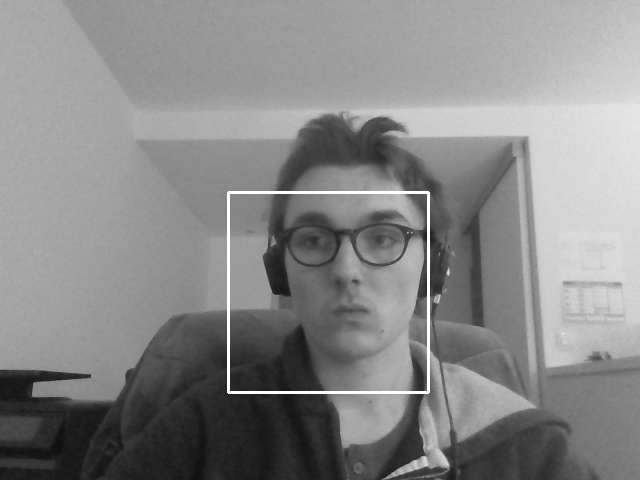
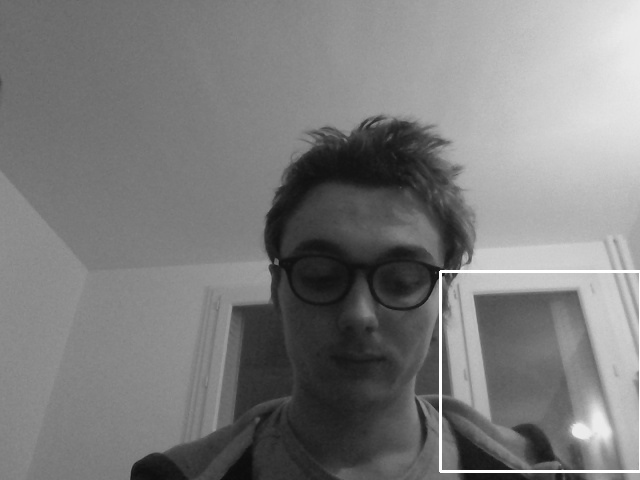
s

diff --git a/templates/index.html b/templates/index.html
@@ -13,7 +13,8 @@ table ,td, tr {
 </style>
 
 	<body>
-		<img src="http://192.168.1.25:8081/" style="width:100%; max-width: 600px; max-height:600px; border-radius:10px"></img>
+		<img src="{{ url_for('video_feed') }}">
+
 
 		<table style="width:100%; max-width: 500px; height:300px;">
 			<tr>
